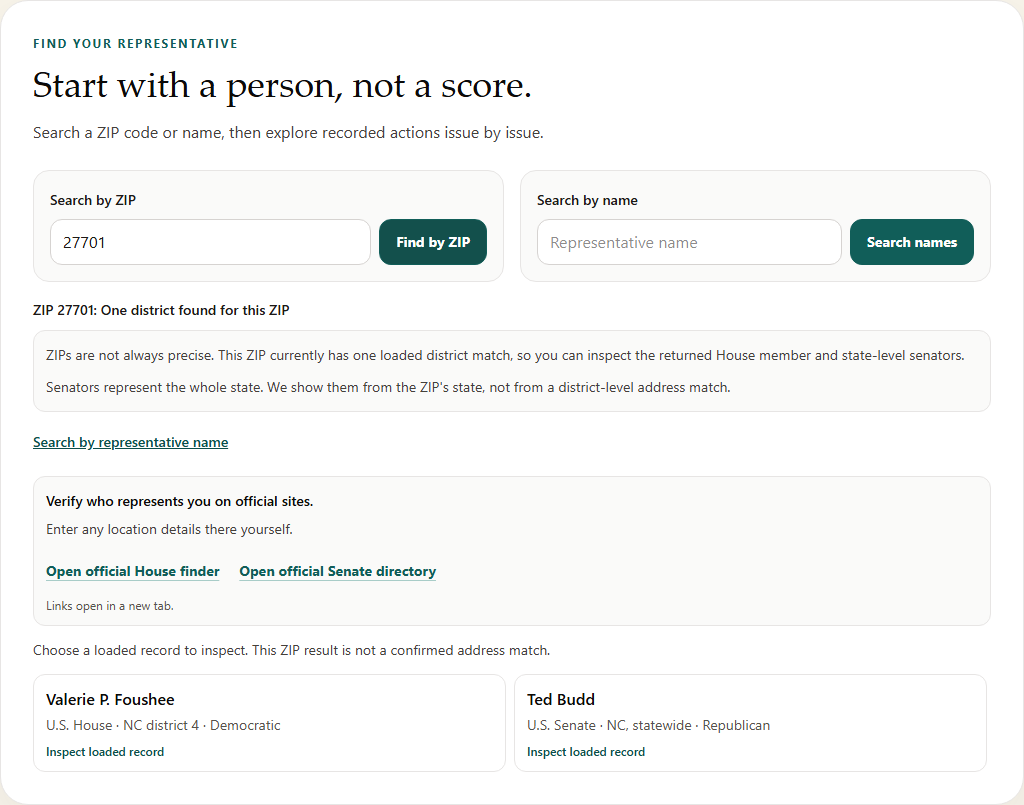
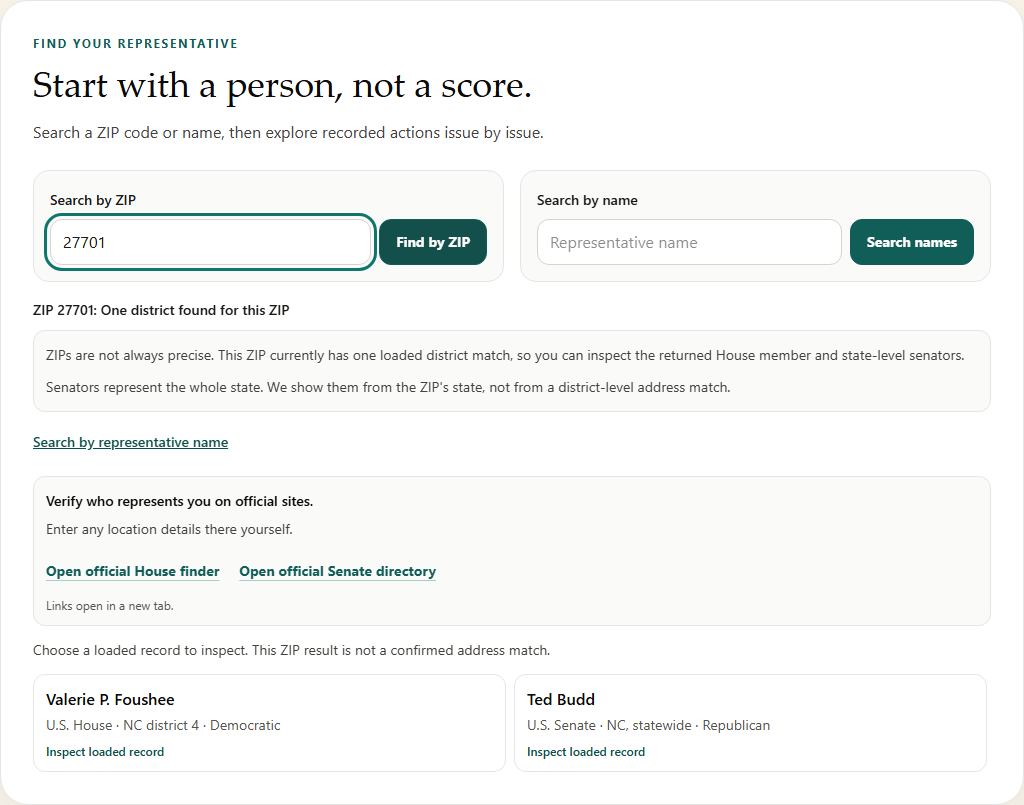
Preserve finder keyboard focus when a search settles

diff --git a/frontend/components/RepresentativeFinder.js b/frontend/components/RepresentativeFinder.js
@@ -23,6 +23,7 @@ export default function RepresentativeFinder({
   const pendingRequest = useRef(null);
   const zipInput = useRef(null);
   const nameInput = useRef(null);
+  const cancelButton = useRef(null);
   useEffect(() => () => {
     requestSequence.current += 1;
     const pending = pendingRequest.current;
@@ -70,7 +71,12 @@ export default function RepresentativeFinder({
 
   function finishRequest(request) {
     clearTimeout(request.timer);
-    if (pendingRequest.current === request) pendingRequest.current = null;
+    if (pendingRequest.current !== request) return;
+    pendingRequest.current = null;
+    // Restore focus before the settled state removes Cancel, only while owned.
+    if (request.sequence === requestSequence.current && document.activeElement === cancelButton.current) {
+      (request.mode === "zip" ? zipInput : nameInput).current?.focus();
+    }
   }
 
   async function searchZip(event) {
@@ -289,7 +295,7 @@ export default function RepresentativeFinder({
       </div>
 
       {state.status === "loading" ? (
-        <button className="secondary-button mt-3" onClick={cancelSearch} type="button">
+        <button className="secondary-button mt-3" onClick={cancelSearch} ref={cancelButton} type="button">
           Cancel search
         </button>
       ) : null}

diff --git a/docs/plans/finder_request_reliability.md b/docs/plans/finder_request_reliability.md
@@ -76,10 +76,44 @@ corrected them to traverse with Tab and expanded narrow checks before the final
 passing suites. No application correction beyond the authorized finder/API scope,
 automatic-review denial, production write, merge or manual deploy occurred.
 
-## Final reconciliation
+## Initial handoff at 701d89fe
 
 Implementation and local validation are complete; final diff contains the three
 authorized frontend files, this plan and bounded evidence. Root/reserved tracked
 work is unchanged. No product blocker remains. Commit/push/draft PR and fresh
 exact-head hosted CI are the next steps; their result will be recorded in the PR
 and task handoff. Independent review and merge remain reserved to the parent.
+
+## Independent review correction: asynchronous completion focus
+
+The first draft head `701d89fef38d25d4459c4ab1b658de13b52ea7ad` passed its
+recorded local and hosted gates (279 units / 213 browsers), but independent review
+found an omitted focus assertion. On that unchanged production build, keyboard
+focus on Cancel followed by successful ZIP completion fell to `BODY` when Cancel
+disappeared. The added assertion fails before correction; its JSON attachment
+records `{ "tag": "BODY", "id": "" }`. This is a confirmed regression in the
+new control, not an unrelated baseline finding.
+
+Add a Cancel button ref. Existing completion cleanup restores the submitted
+search input only when the request still owns the pending identity/sequence and
+Cancel is the active element, immediately before the settled render removes it.
+Moved focus remains where the reader placed it; obsolete completion cleanup
+cannot restore an old input or move focus from a newer Cancel. Explicit Cancel,
+Close, superseding/invalid search and unmount retain their existing guards.
+No API, result, qualification, error, input, URL/history or selection change.
+
+- [x] Reproduce loss of focus at exact first draft head before changing runtime.
+- [x] Implement the scoped focus correction and regression coverage.
+- [x] 279 units, lint (eight existing warnings), production build and 68 finder
+  checks pass, including 16 success/network/503/empty/404 focus ownership cases,
+  four cross-mode superseded success/error cases and all eight slow-search success
+  checks with focus asserted after completion at 320/390/768/1440.
+- [x] Full applicable production browser lane passes 233/233, zero skips/flakes.
+  Inspected completion/error focus captures at 390/1440; refreshed evidence binds
+  final code, actual report stats, eight captures and the before/after focus
+  observations. All eight held-success cases report the correct active input.
+- [ ] Commit/push same draft PR and verify fresh exact-head CI; no merge.
+
+Local correction is complete with no blocker. Same draft PR remains held for
+independent review. Hosted results for the correction head will be recorded on
+the PR and in the task handoff rather than inferred from the first draft's CI.
